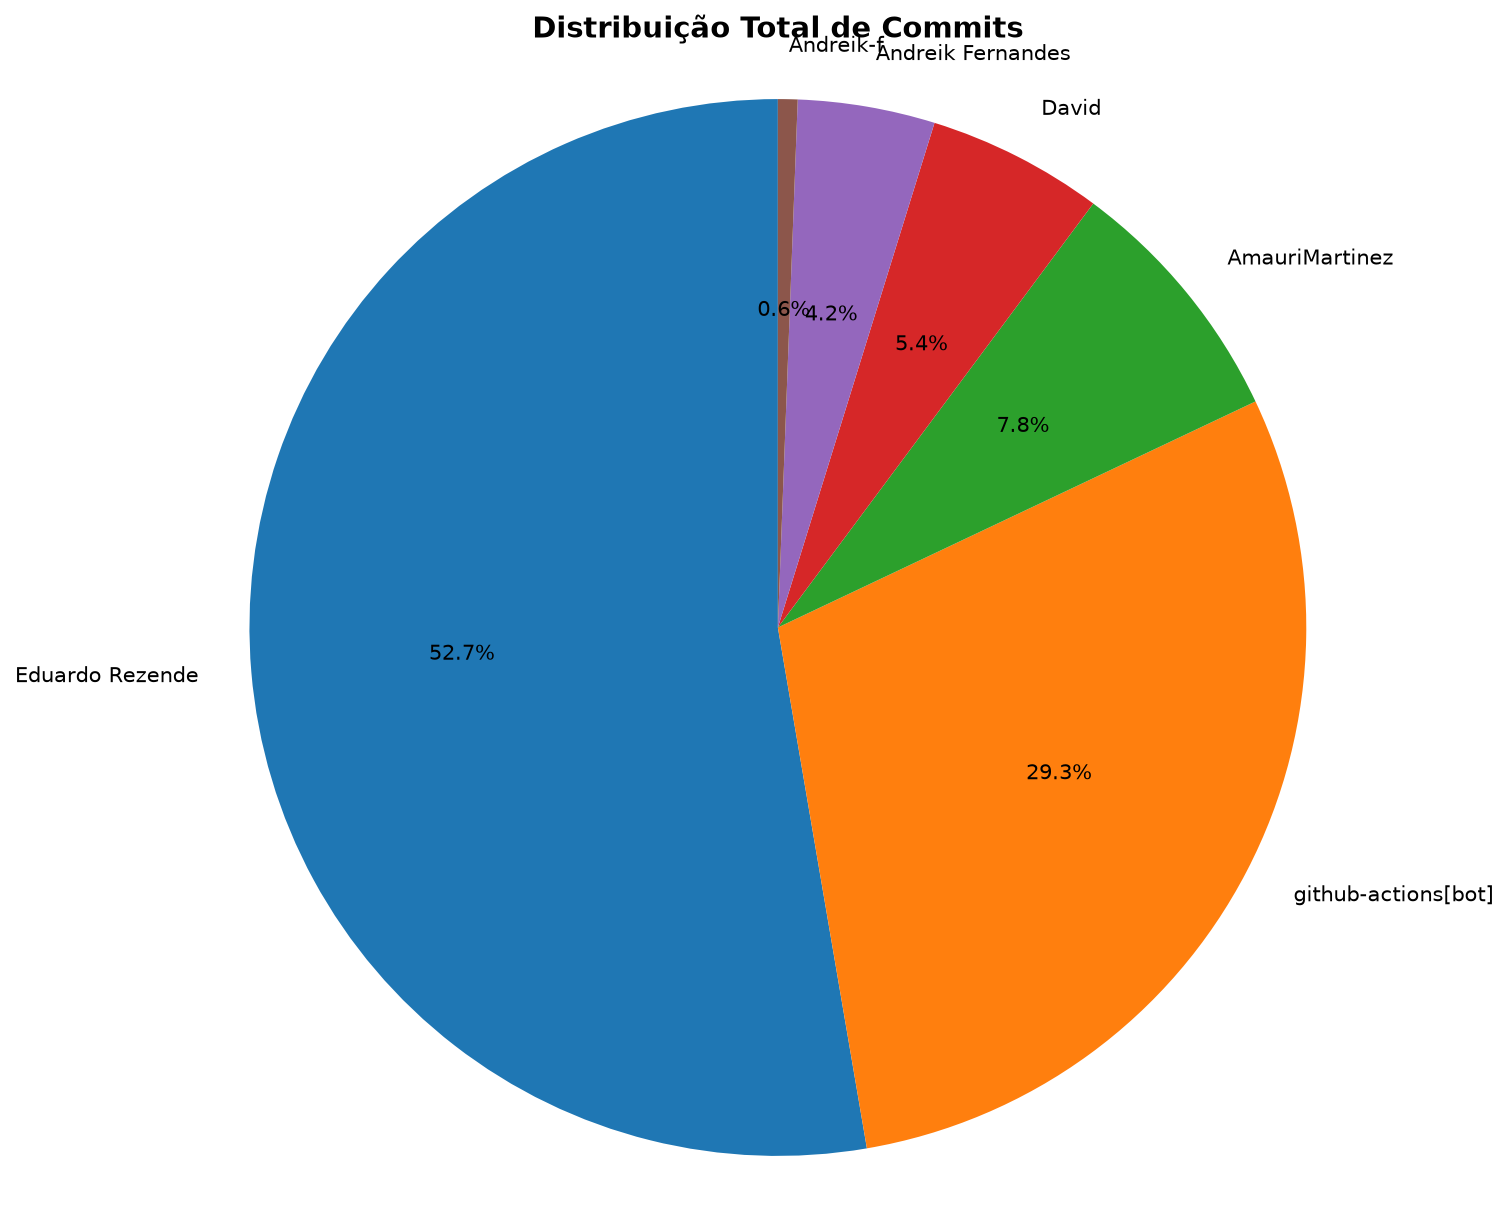
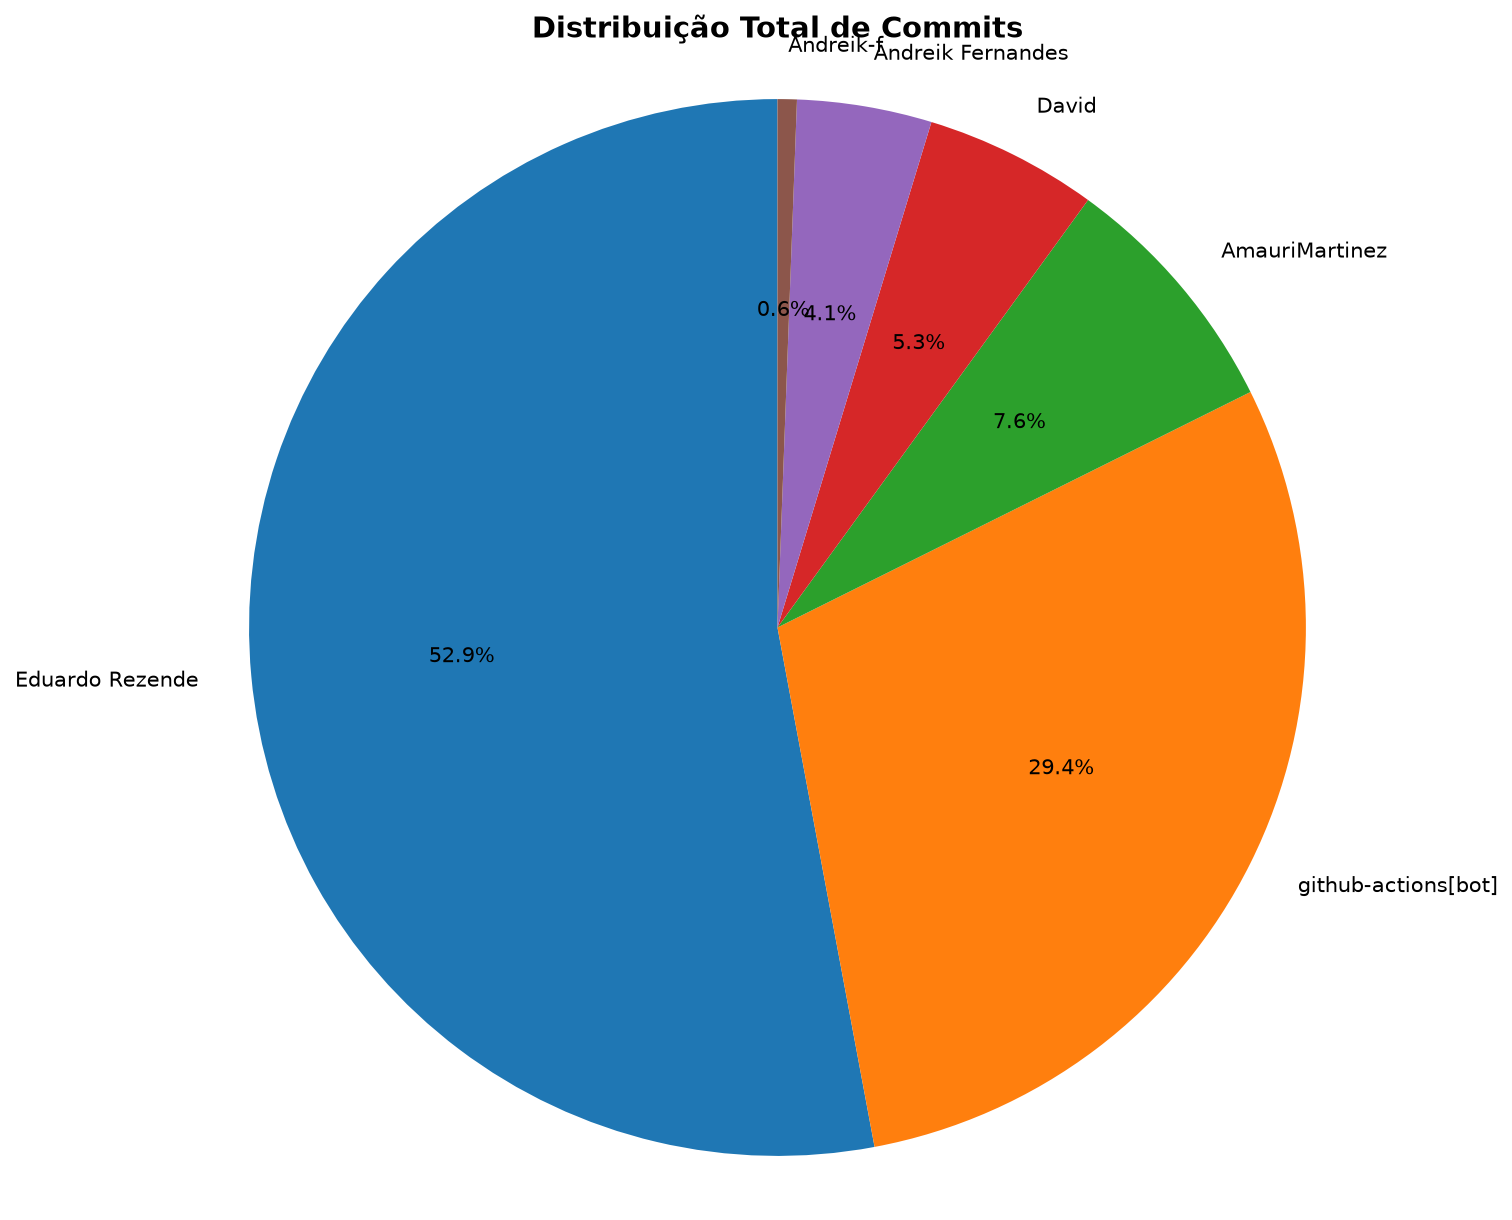
📊 Atualizar relatório de contribuições [skip ci]

diff --git a/documentos/CONTRIBUTION_REPORT.md b/documentos/CONTRIBUTION_REPORT.md
@@ -1,6 +1,6 @@
 # 📊 Relatório de Contribuições do Projeto
 
-**Última atualização:** 11/11/2026 03:00
+**Última atualização:** 11/11/2026 16:22
 
 ---
 
@@ -12,15 +12,15 @@
 | Andreik Fernandes   |         7 |      2292 |        45 |         34 |              0 |               0 |
 | Andreik-f           |         1 |        30 |         0 |          2 |              0 |               0 |
 | David               |         9 |      1136 |       215 |         24 |              4 |               1 |
-| Eduardo Rezende     |        88 |    155295 |     46028 |        694 |              4 |               1 |
-| github-actions[bot] |        49 |       443 |       379 |          3 |             49 |               1 |
+| Eduardo Rezende     |        90 |    155789 |     46086 |        695 |              4 |               1 |
+| github-actions[bot] |        50 |       447 |       383 |          3 |             50 |               1 |
 
 
 ## 📅 Contribuições Semanais (Todo o Semestre)
 
-**2026-11-04**: AmauriMartinez: 2, Eduardo Rezende: 35, github-actions[bot]: 10
+**2026-11-04**: AmauriMartinez: 2, Eduardo Rezende: 36, github-actions[bot]: 10
 
-**2026-10-28**: AmauriMartinez: 1, Eduardo Rezende: 10, github-actions[bot]: 8
+**2026-10-28**: AmauriMartinez: 1, Eduardo Rezende: 11, github-actions[bot]: 9
 
 **2026-10-21**: AmauriMartinez: 1, Andreik Fernandes: 3, David: 4, Eduardo Rezende: 18, github-actions[bot]: 13
 
